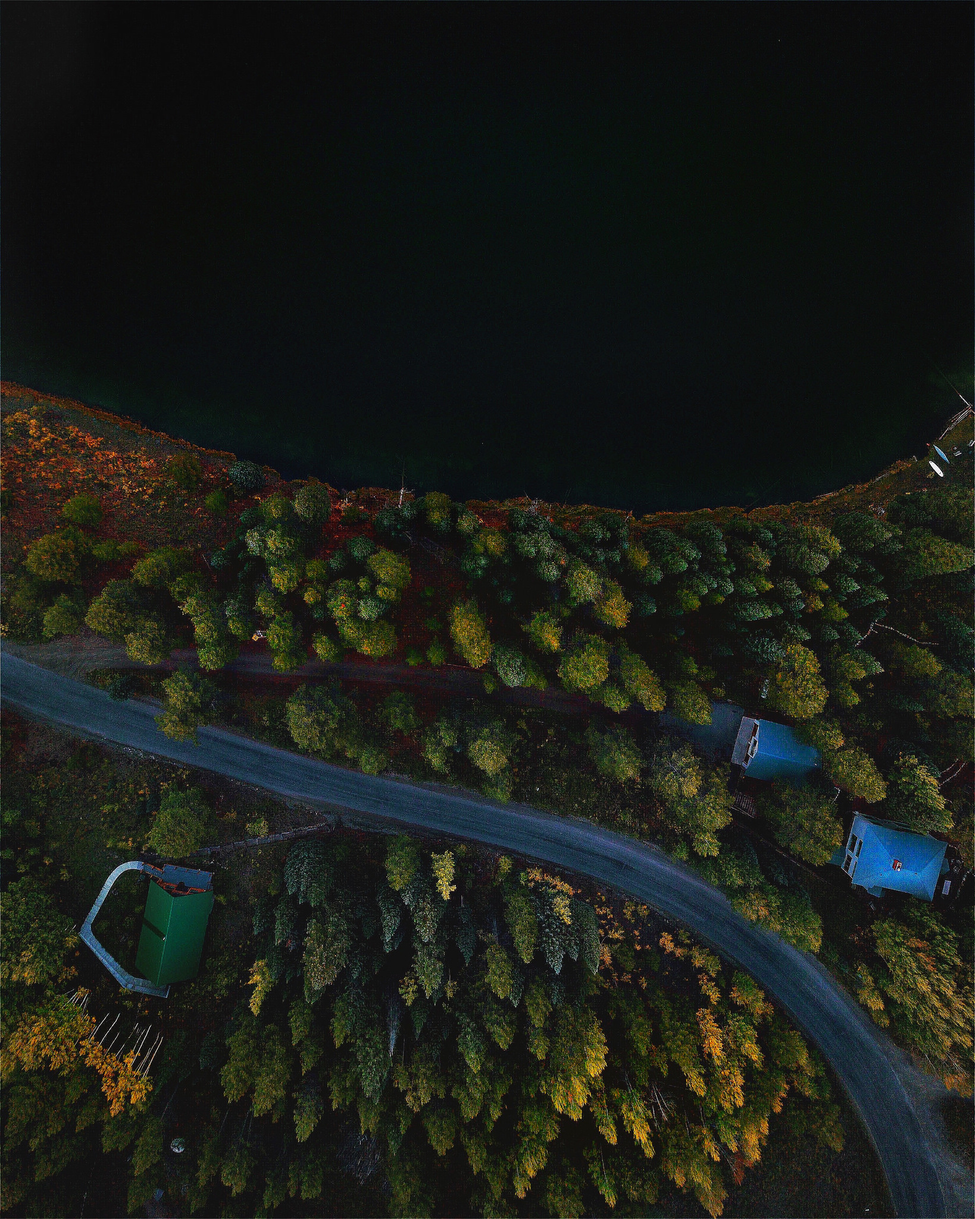
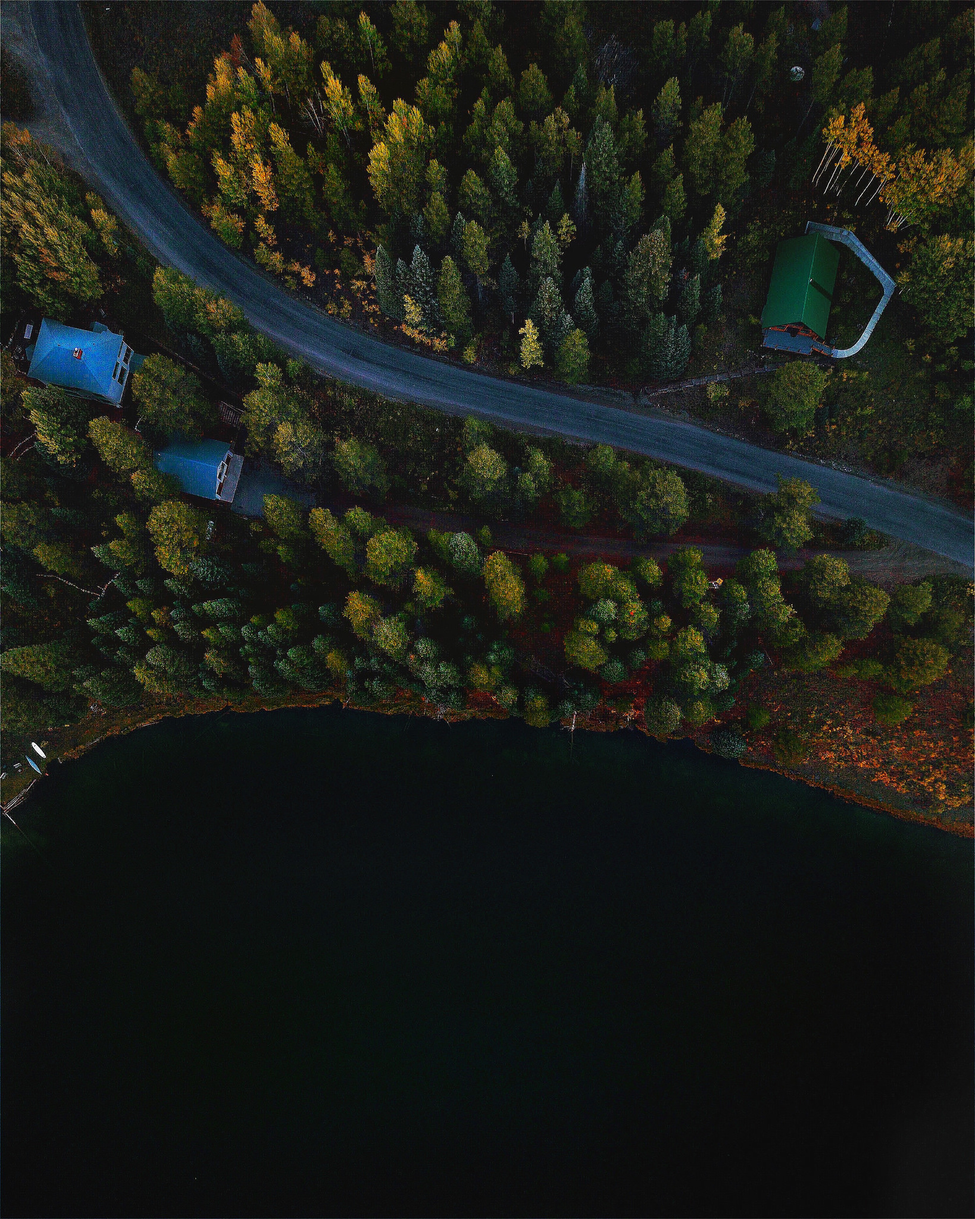
repositioned lake photo

diff --git a/css/style.css b/css/style.css
@@ -246,7 +246,7 @@ a.effect-underline:hover:after {
 
 #img-1 {
   background: url("../img/lakeview.jpg");
-  background-position: 50% 37%;
+  background-position: 50% 40%;
   background-size: cover; }
 
 #img-2 {

diff --git a/scss/style.scss b/scss/style.scss
@@ -382,7 +382,7 @@ height: 100%;
 
 #img-1 {
   background: url("../img/lakeview.jpg");
-  background-position: 50% 37%;
+  background-position: 50% 40%;
   background-size: cover;
 }
 
